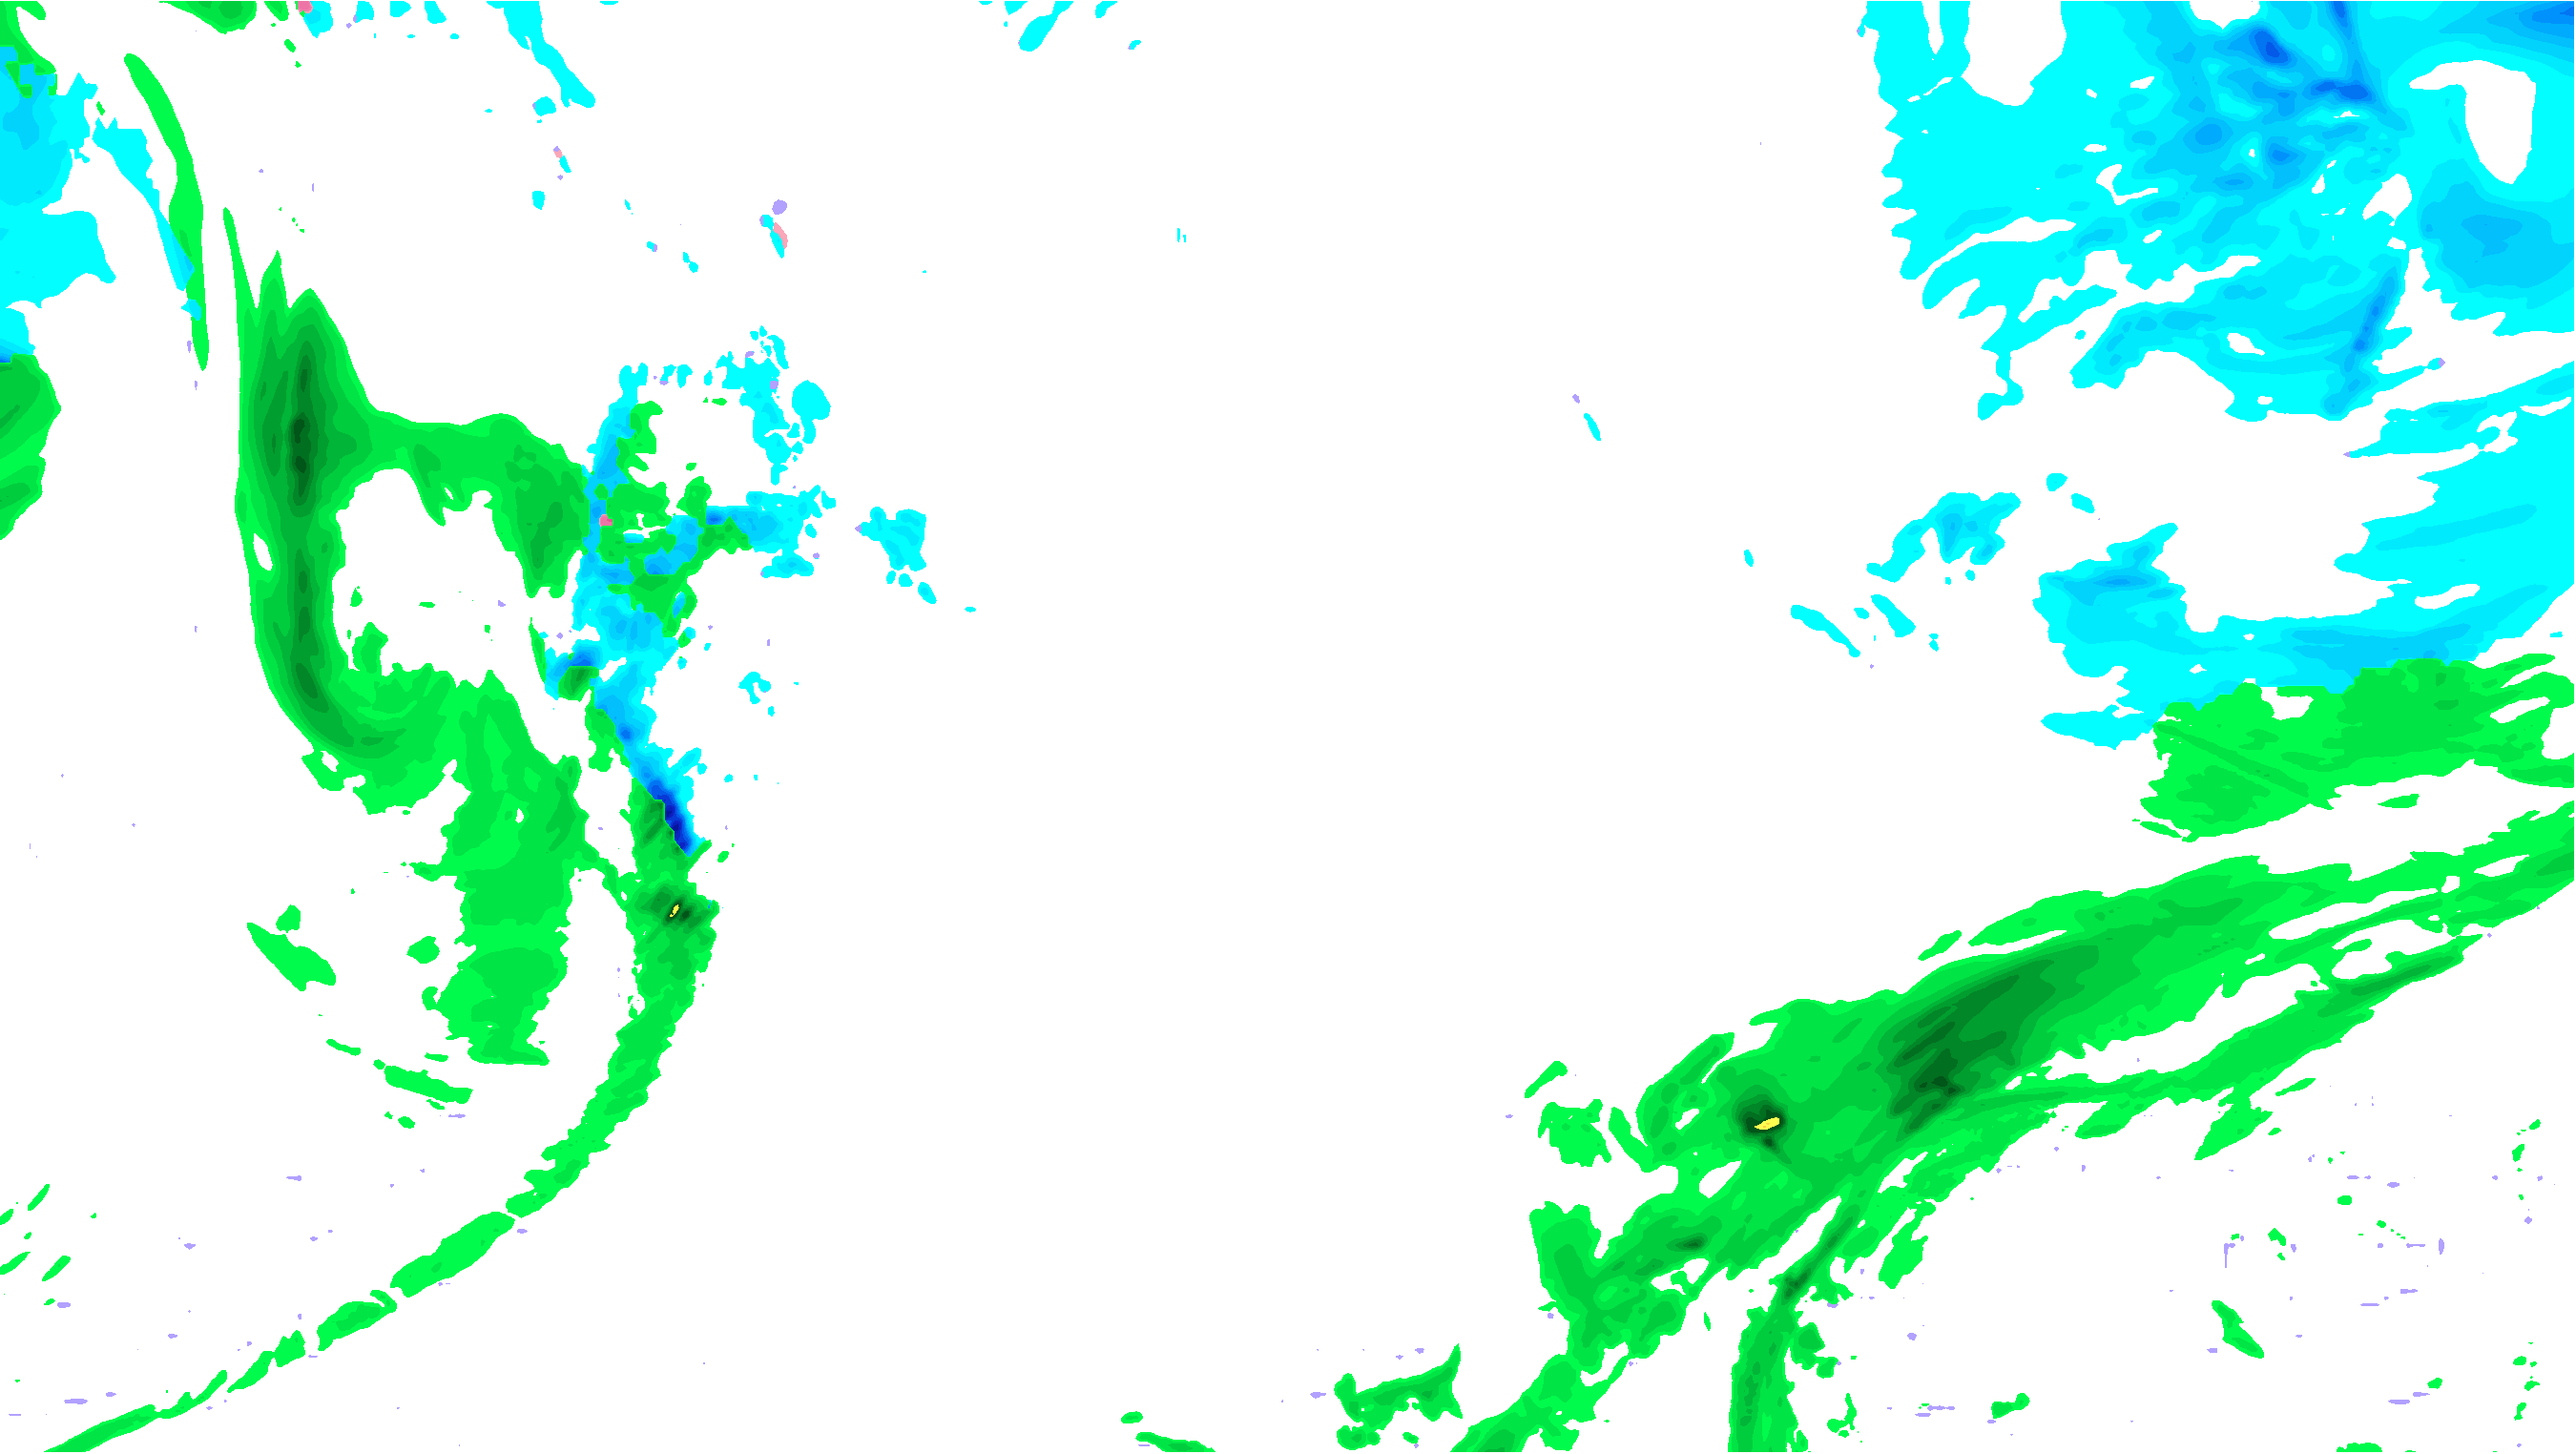
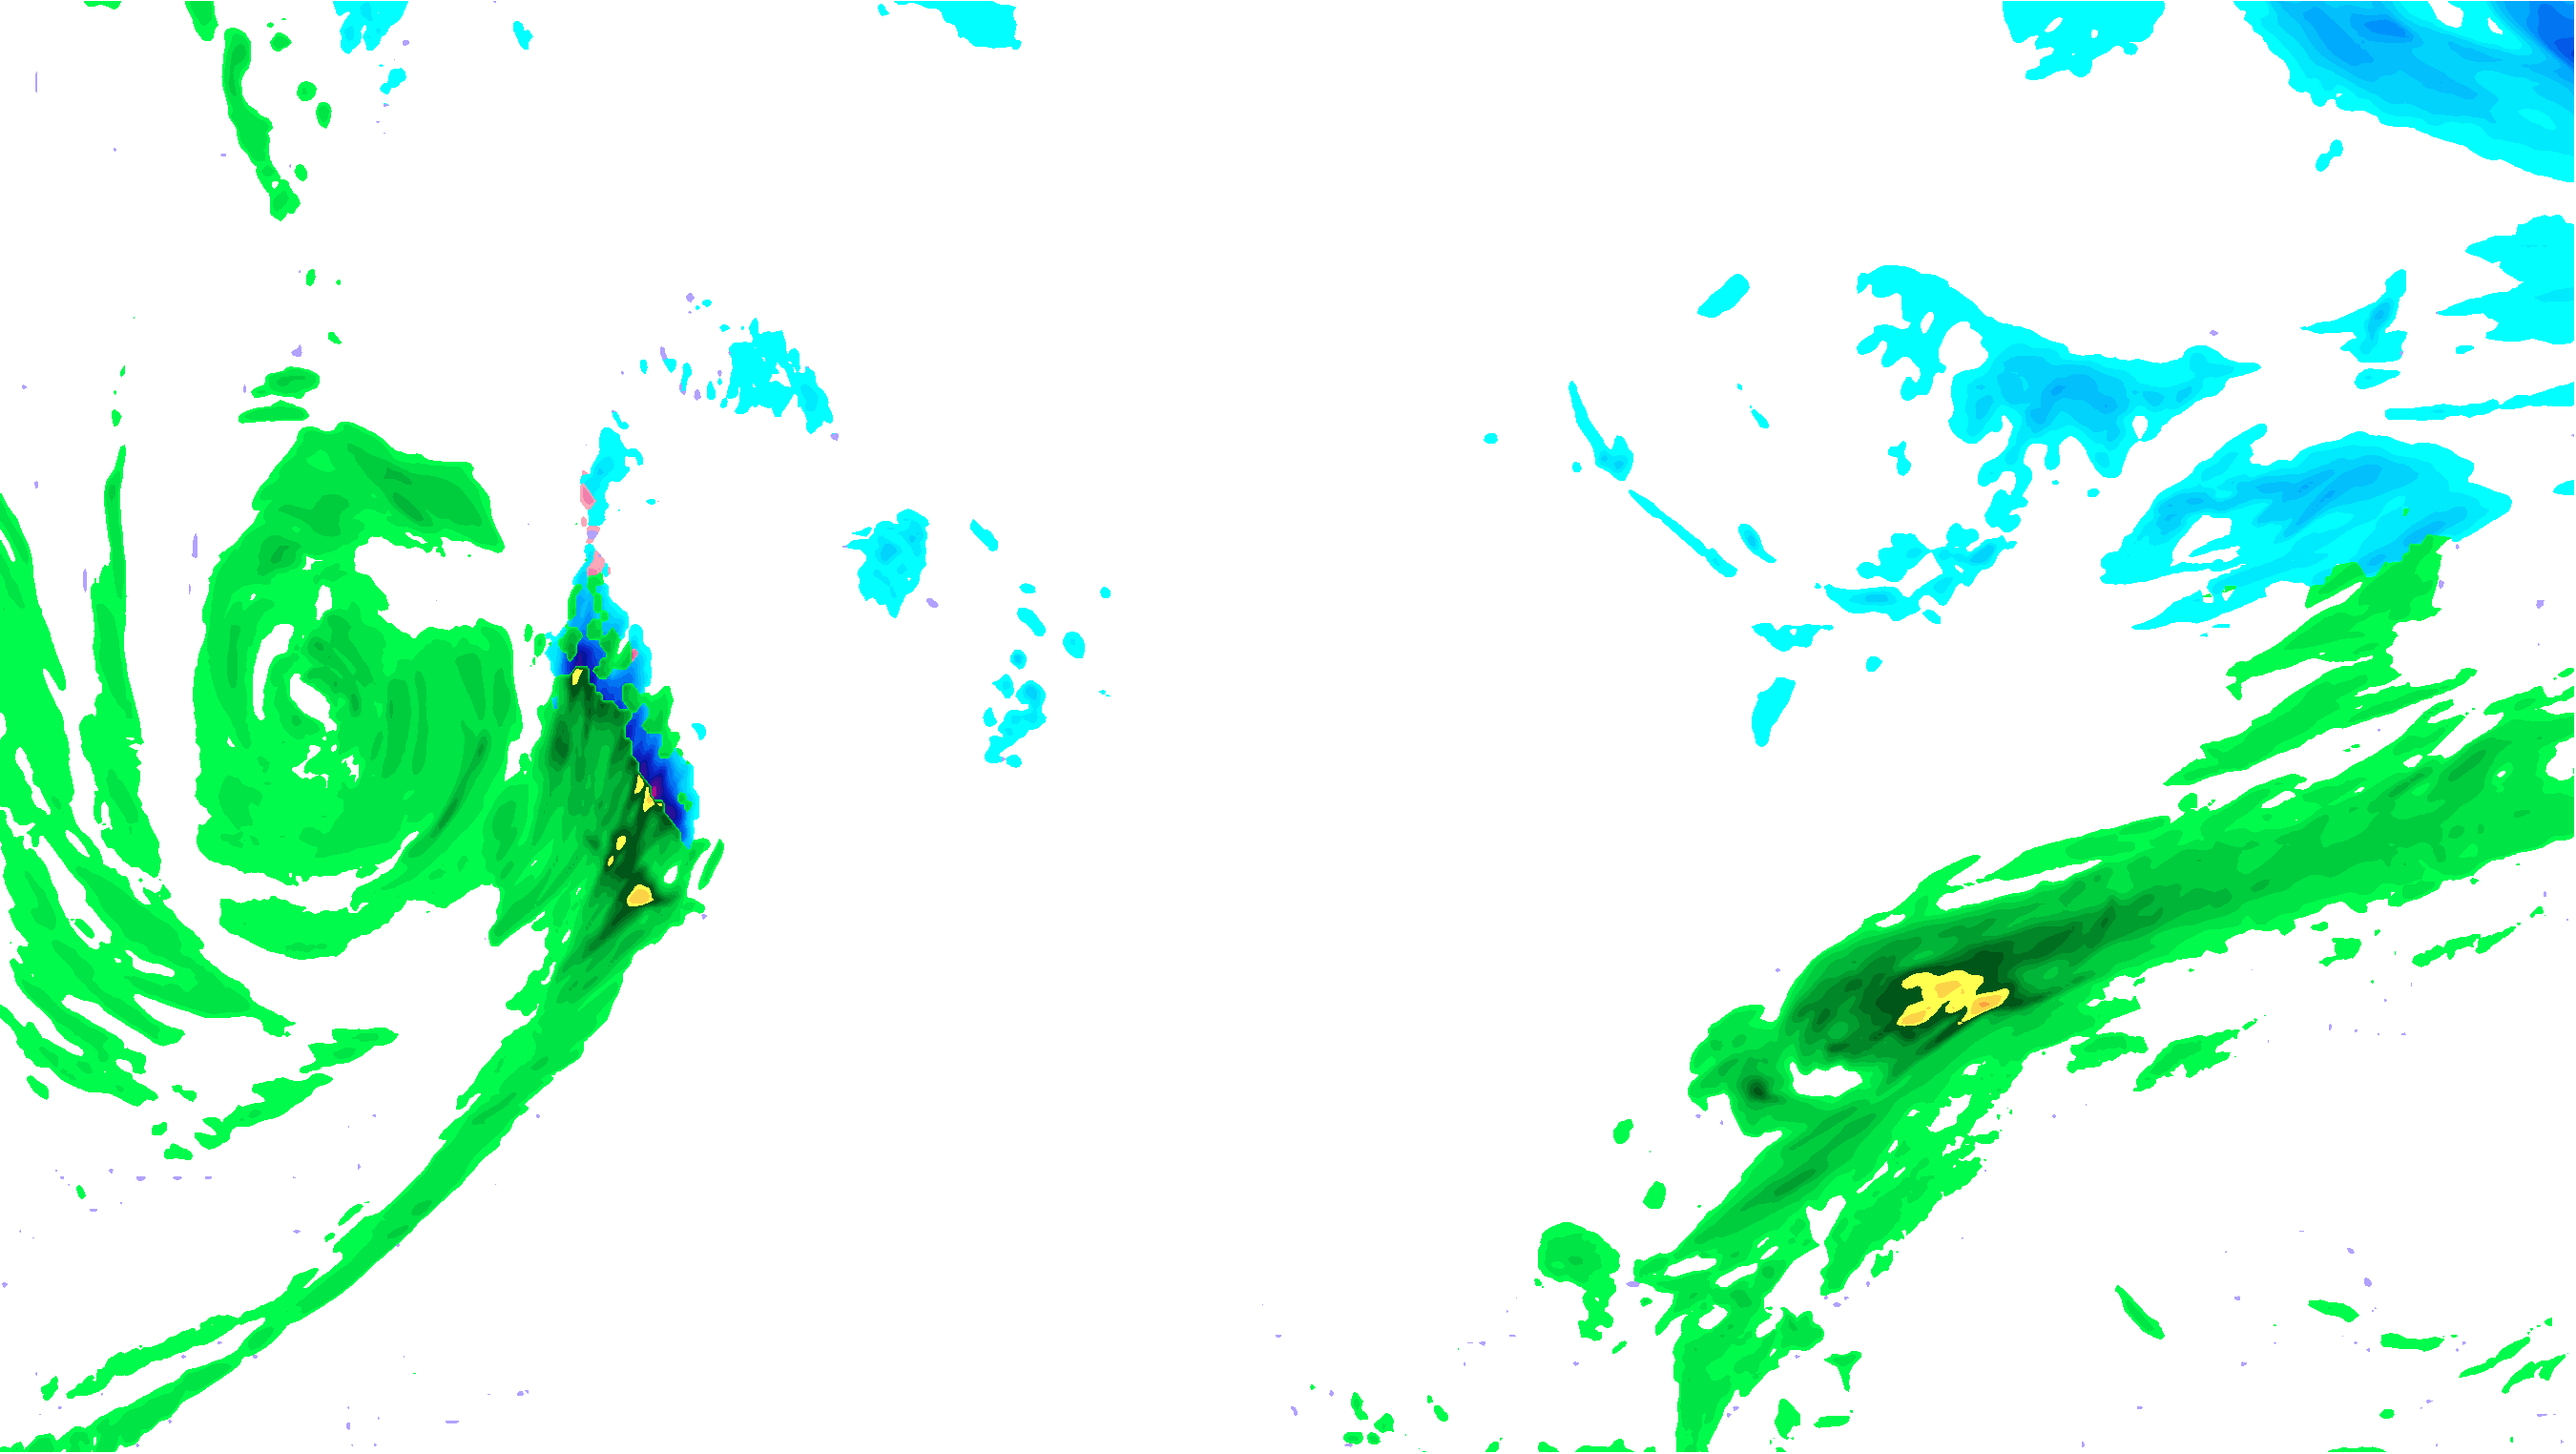
February 18, 2024 Update
Push new maps.

diff --git a/index.html b/index.html
@@ -18,7 +18,7 @@
             <div id="map" class="webmap-new"></div>
           </div>
           <div class="map-info-embed">
-            <p id="currentDate" class="slider-header">Feb 11, 2024, 7 AM EST</p>
+            <p id="currentDate" class="slider-header">Feb 18, 2024, 7 AM EST</p>
           </div>
           <div class="sliderOverlay">
             <input type="range" id="dateSlider" class="slider" min="0" max="39" value="0" step="1">

diff --git a/main.js b/main.js
@@ -22,8 +22,8 @@ map.addControl(new mapboxgl.GeolocateControl({
 const dateTimes = [];
 
 // Set the start and end date
-const startDate = new Date('2024-02-11T12:00:00');
-const endDate = new Date('2024-03-10T23:00:00');
+const startDate = new Date('2024-02-18T12:00:00');
+const endDate = new Date('2024-03-18T23:00:00');
 
 // Loop through the hours between start and end dates
 let currentDate = startDate;

diff --git a/UCAR-GFS-P-Type.py b/UCAR-GFS-P-Type.py
@@ -36,7 +36,7 @@ def readLocalData(data_path,extent):
 
 def readCloudData(extent,prateShape,i):
     # Open the NOMADS GFS file
-    ds = xr.open_dataset('http://nomads.ncep.noaa.gov:80/dods/gfs_0p25/gfs20240211/gfs_0p25_06z')
+    ds = xr.open_dataset('http://nomads.ncep.noaa.gov:80/dods/gfs_0p25/gfs20240218/gfs_0p25_06z')
         
     cropped_ds = ds.sel(lat=slice(extent[2],extent[3]), lon=slice(extent[0]+360,extent[1]+360))
     
@@ -123,7 +123,7 @@ def startScript():
         i = str(i).zfill(3)
         print(i)
         #url = f'https://nomads.ncep.noaa.gov/pub/data/nccf/com/gfs/prod/gfs.20240204/06/atmos/gfs.t06z.sfluxgrbf{i}.grib2'
-        url = f'https://nomads.ncep.noaa.gov/pub/data/nccf/com/gfs/prod/gfs.20240211/06/atmos/gfs.t06z.sfluxgrbf{i}.grib2'
+        url = f'https://nomads.ncep.noaa.gov/pub/data/nccf/com/gfs/prod/gfs.20240218/06/atmos/gfs.t06z.sfluxgrbf{i}.grib2'
         urllib.request.urlretrieve(url,f'./Data/GFS/MostRecent/{i}.grib2')
         
         buildMap(i,ax,extent)
